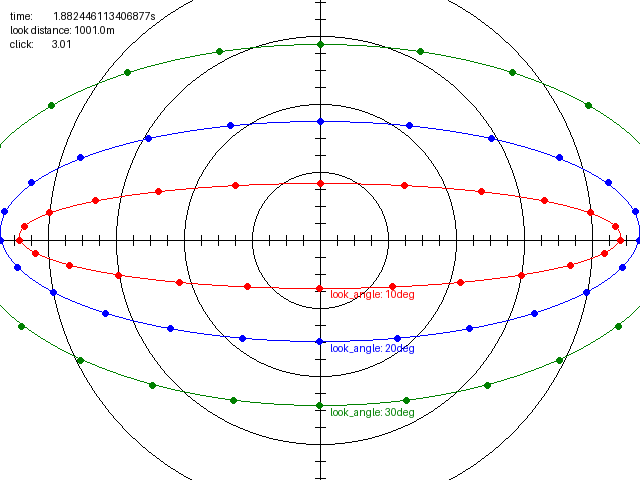
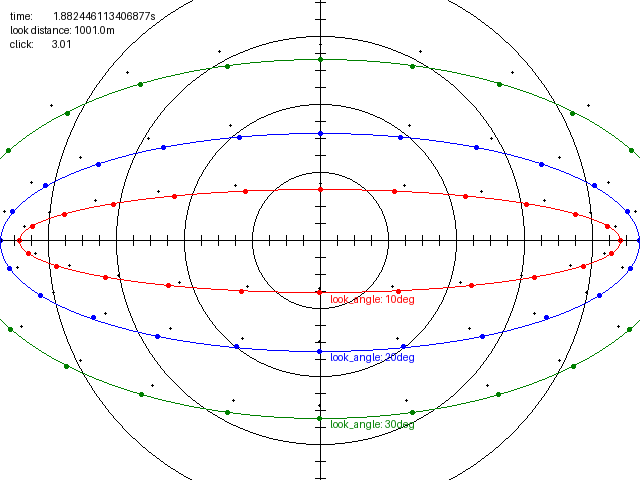
trying to adjust flight time to destination position

diff --git a/examples/aerial_target_trajectory.py b/examples/aerial_target_trajectory.py
@@ -1,3 +1,5 @@
+import math
+
 from aerial_targets_shooting.aerial_target import AerialTarget
 from py_ballisticcalc import *
 from PIL import Image, ImageDraw
@@ -70,13 +72,14 @@ draw = ImageDraw.Draw(im)
 
 # initial values
 flight_direction, look_angle, flight_time = 0, 0, 0
-distance = Distance.Meter(501)
+distance = Distance.Meter(1001)
 
-# for look_angle in range(10, 31, 10):
-for look_angle in range(20, 21, 10):
+for look_angle in range(10, 31, 10):
+# for look_angle in range(20, 21, 10):
 
     color = grid_colors.pop(0)
     points = []
+    adjusted_points = []
     time_deltas = []
     for flight_direction in range(0, 360, 15):
         # define first target position to sight line
@@ -94,7 +97,7 @@ for look_angle in range(20, 21, 10):
         flight_time = shot_result[-1:][0].time
 
         # calculate target position relative to sight line
-        target, pos = initial_target.at_time(flight_time)
+        _, pos = initial_target.at_time(flight_time)
 
         # [print(row) for row in f"{pos!r}".split(', ')]
         # print()
@@ -102,25 +105,37 @@ for look_angle in range(20, 21, 10):
         xs = pos.x_shift >> Unit.Thousandth
         ys = pos.y_shift >> Unit.Thousandth
 
-        points.append((im.width // 2 + xs * (grid_scale // 4), im.height // 2 + ys * (grid_scale // 4)))
-
         adjusted_shot_result = get_trajectory_for_look_angle(pos.look_distance, pos.look_angle)
         adjusted_flight_time = adjusted_shot_result[-1:][0].time
         time_deltas.append(flight_time - adjusted_flight_time)
-        target1, pos1 = initial_target.at_time(adjusted_flight_time)
-        p1 = (im.width // 2 + (pos1.x_shift >> Unit.Thousandth) * (grid_scale // 4), im.height // 2 + (pos1.y_shift >> Unit.Thousandth) * (grid_scale // 4))
-        draw.circle(p1, radius=3, fill="#0000ff")
+        _, adjusted_pos = initial_target.at_time(adjusted_flight_time)
+
+        pos_projection_point = (
+            im.width // 2 + xs * (grid_scale // 4),
+            im.height // 2 + ys * (grid_scale // 4)
+        )
+
+        adjusted_pos_projection_point = (
+            im.width // 2 + (adjusted_pos.x_shift >> Unit.Thousandth) * (grid_scale // 4),
+            im.height // 2 + (adjusted_pos.y_shift >> Unit.Thousandth) * (grid_scale // 4)
+        )
+
+        points.append(pos_projection_point)
+        adjusted_points.append(adjusted_pos_projection_point)
+
+        # draw.circle(adjusted_pos_projection_point, radius=3, fill="#0000ff")
         # print(f"time: {flight_time:.3f} | {adjusted_flight_time:.3f} | {flight_time-adjusted_flight_time:.3f}")
 
     print(f"{max(time_deltas):.5f}")
 
-    for p in points:
-        draw.circle(p, radius=3, fill=color)
+    for i, p in enumerate(adjusted_points):
+        draw.circle(p, radius=2, fill=color)
+        draw.circle(points[i], radius=1, fill='black')
 
-    max_x = max(points, key=lambda p: p[0])[0]
-    min_x = min(points, key=lambda p: p[0])[0]
-    max_y = max(points, key=lambda p: p[1])[1]
-    min_y = min(points, key=lambda p: p[1])[1]
+    max_x = max(adjusted_points, key=lambda p: p[0])[0]
+    min_x = min(adjusted_points, key=lambda p: p[0])[0]
+    max_y = max(adjusted_points, key=lambda p: p[1])[1]
+    min_y = min(adjusted_points, key=lambda p: p[1])[1]
 
     draw.ellipse((
         min_x,
